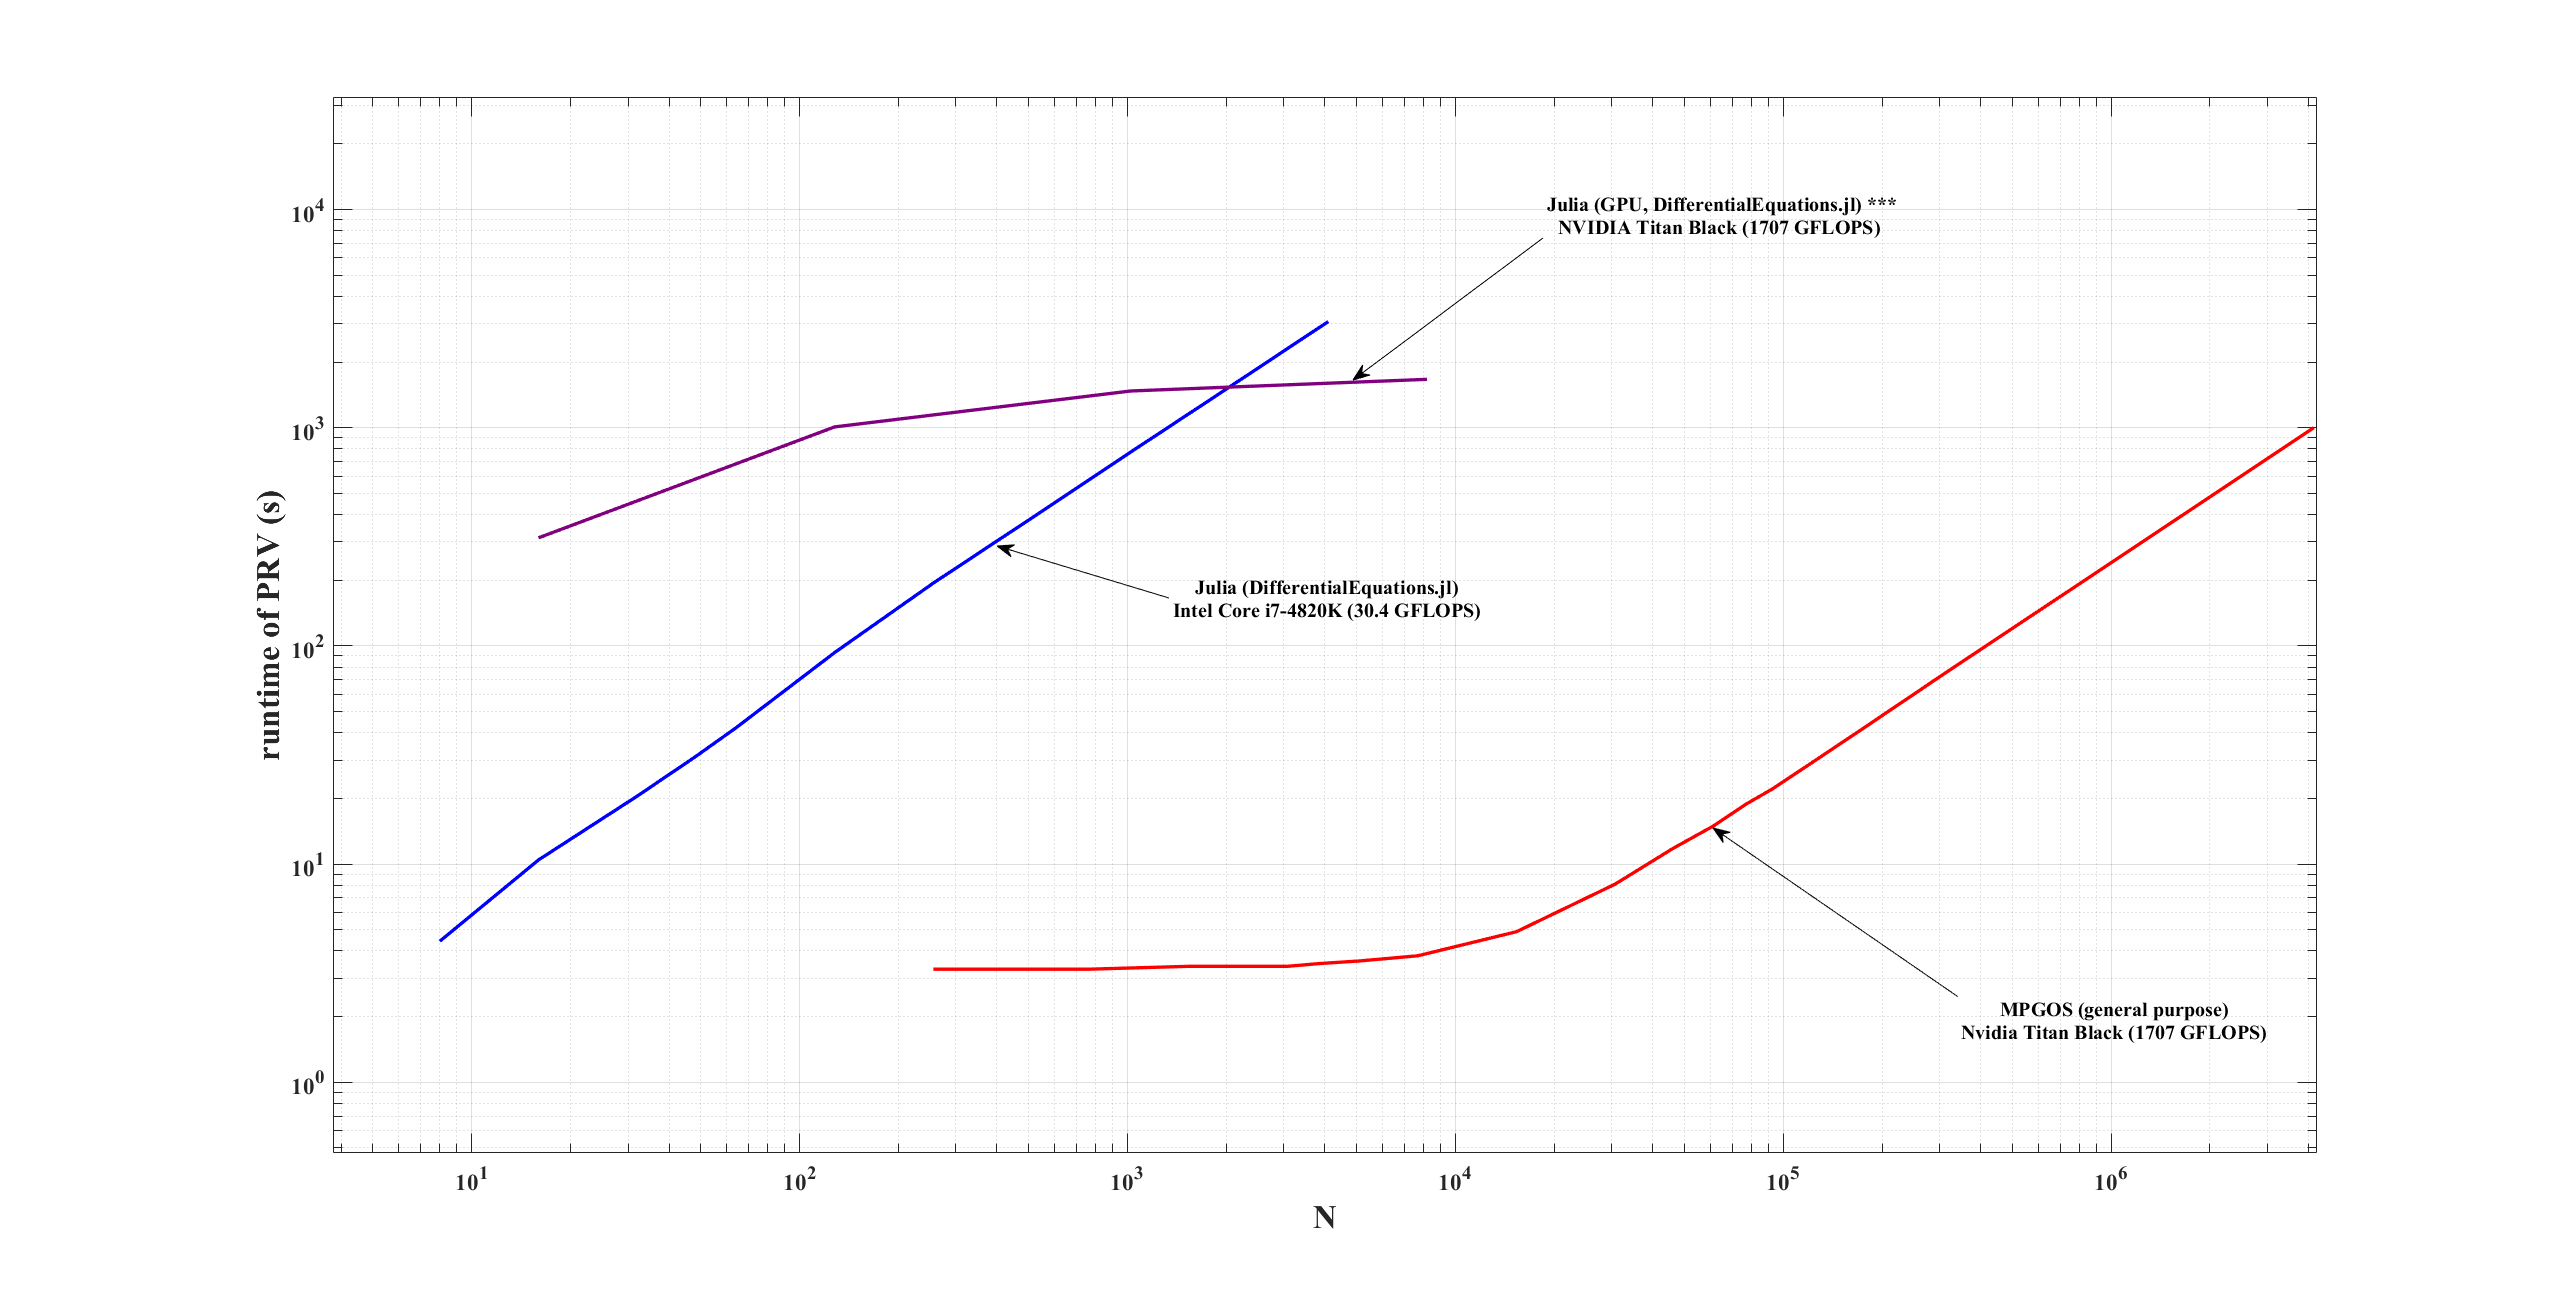
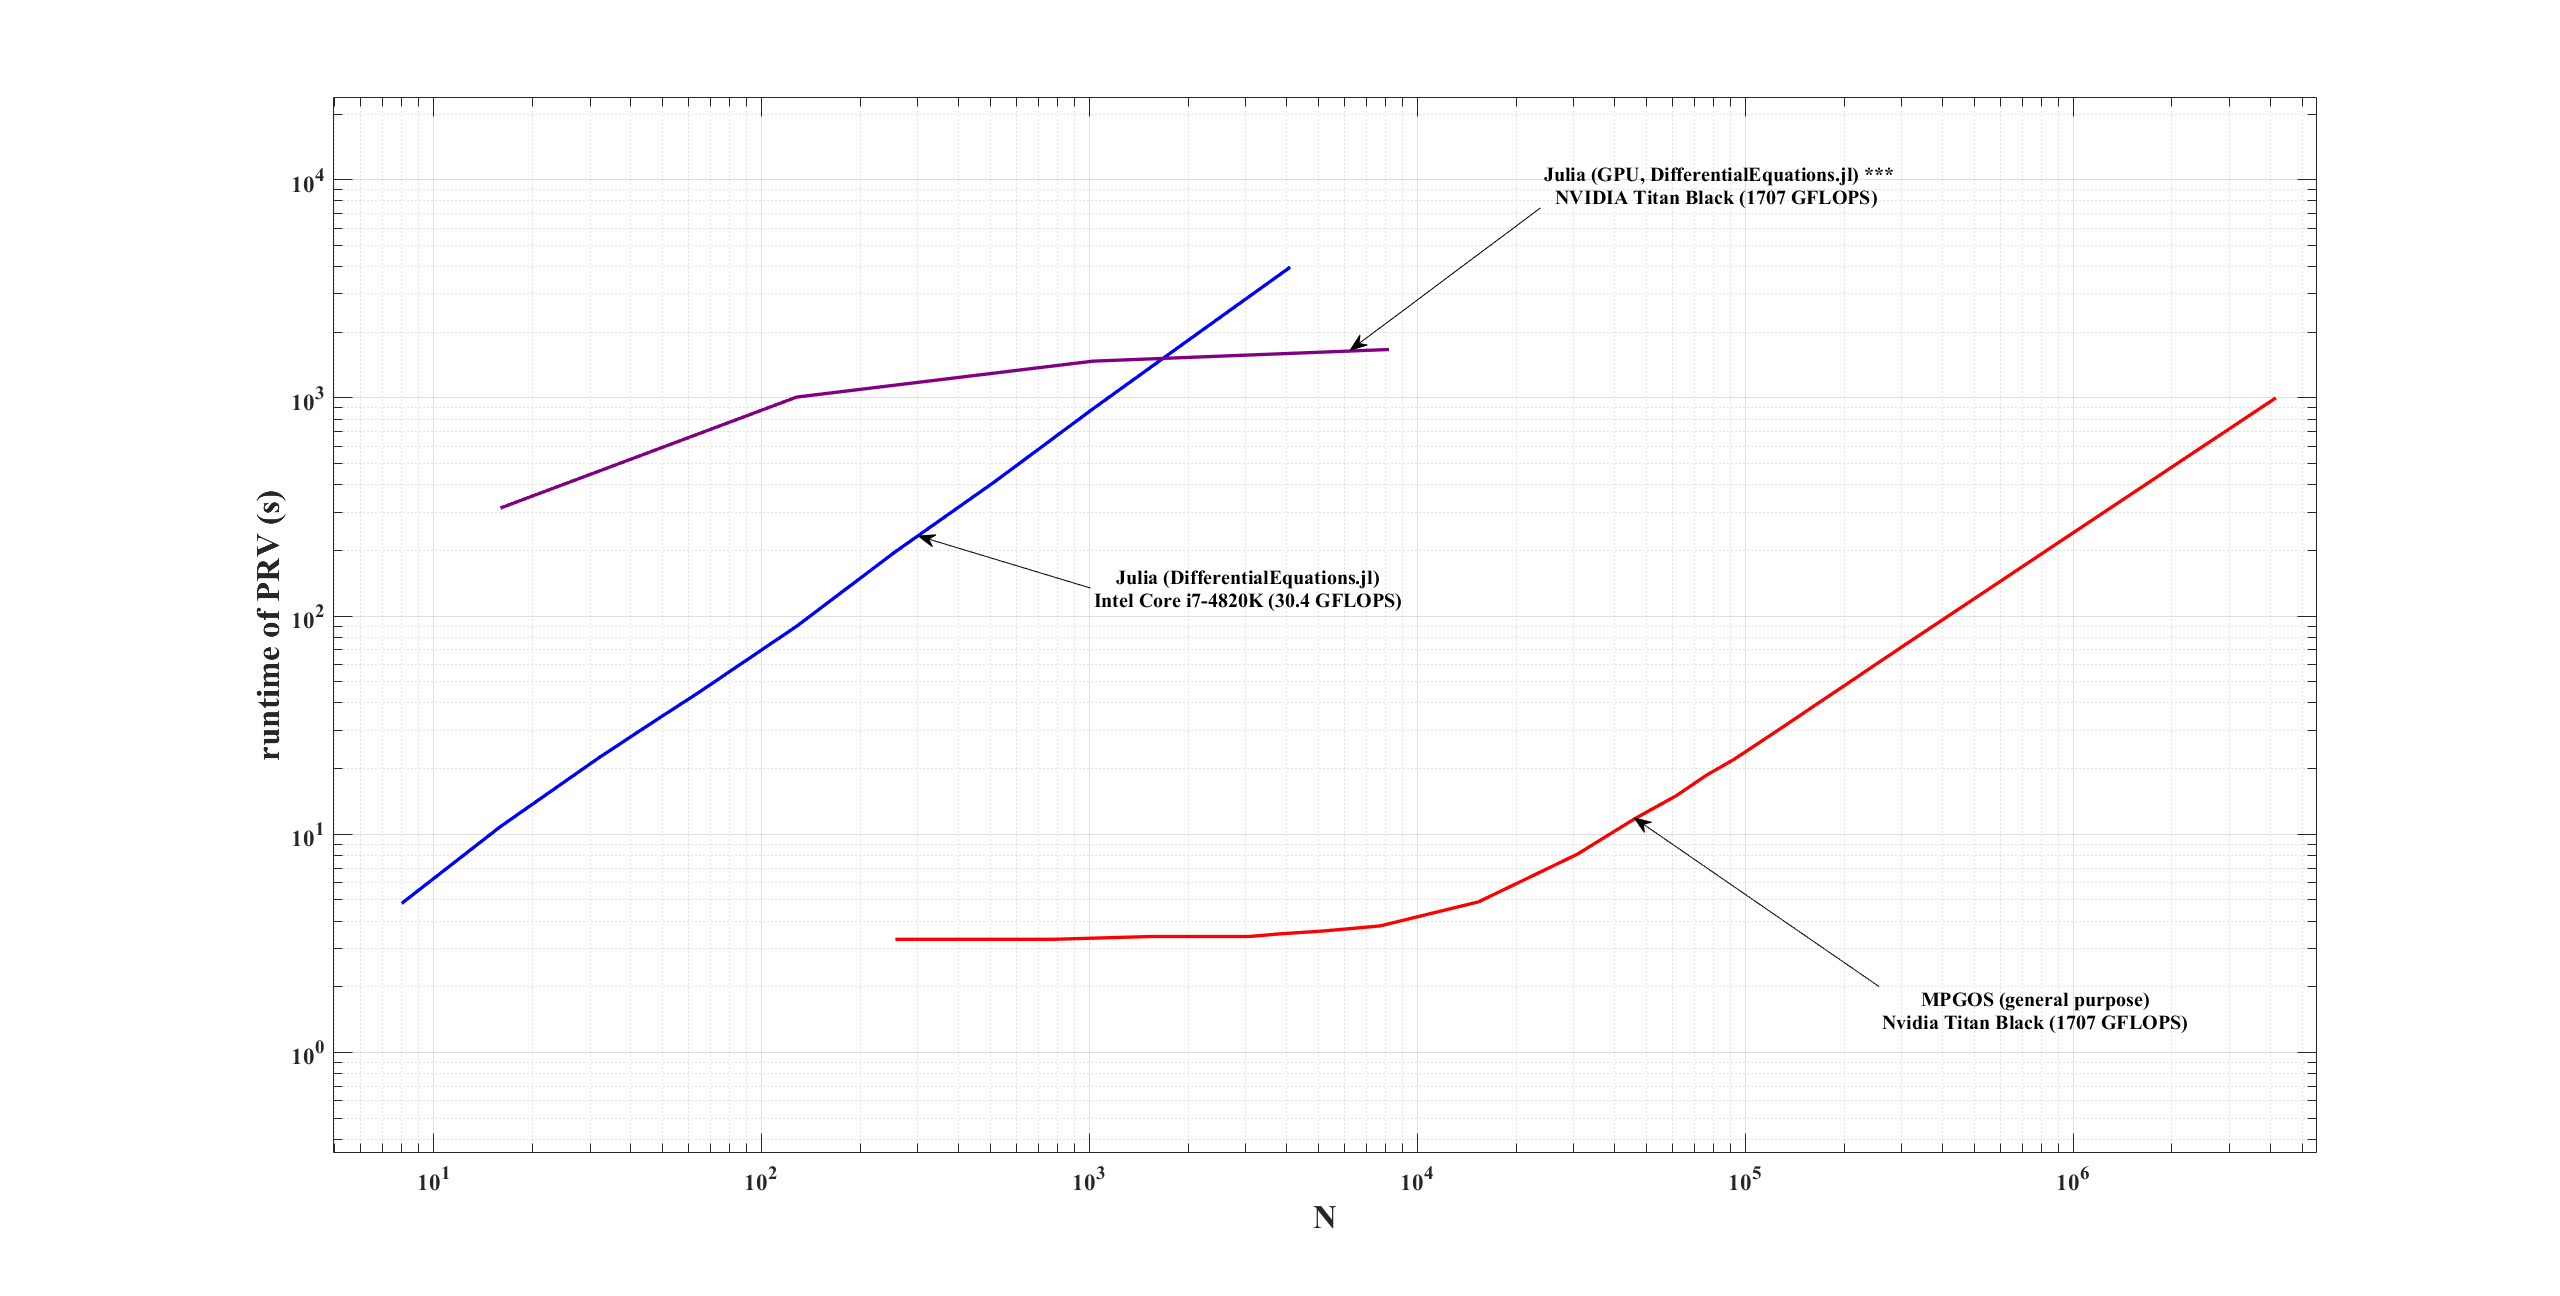
minor changes

diff --git a/Valve_DP5/Performance/Pressure_Relief_Valve.m b/Valve_DP5/Performance/Pressure_Relief_Valve.m
@@ -1,6 +1,6 @@
 function PressureReliefValveRuntimeComparison
 
-%y: transienz only   z: full problem
+%y: transient only   z: full problem
 
 %mpgos
 mpgos.x = [256 768 1536 3072 3840 5120 7680 15360 30720 46080 61440 76800 92160 122880 184320 307200 768000 4147200];
@@ -9,8 +9,9 @@ mpgos.z = [3.3 3.3 3.4 3.4 3.5 3.6 3.8 4.9 8.1 11.8 15.0 18.8 22.0 29.3 44.1 74.
 
 %CPU_Valve_julia.jl
 julia_cpu.x = [8	16	32	48	64	128	256	512	1024	2048	4096	10000];
-%julia_cpu.y = [4.826	10.853	22.482	33.579	44.409	89.889	197.314	411.064	890.36208	1884.667078	3976.813194	NaN];
-julia_cpu.z = [4.431	10.451	20.501	30.972	42.123	93.255	194.194	386.703	774.20434	1538.097223	3065.774351	NaN]; %transient only
+%julia_cpu.y = [4.431	10.451	20.501	30.972	42.123	93.255	194.194	386.703	774.20434	1538.097223	3065.774351	NaN]; 
+julia_cpu.z = [4.826	10.853	22.482	33.579	44.409	89.889	197.314	411.064	890.36208	1884.667078	3976.813194	NaN];
+
 
 %GPU_Valve_julia.jl
 julia_gpu.x = [16	128     1024    8192];
